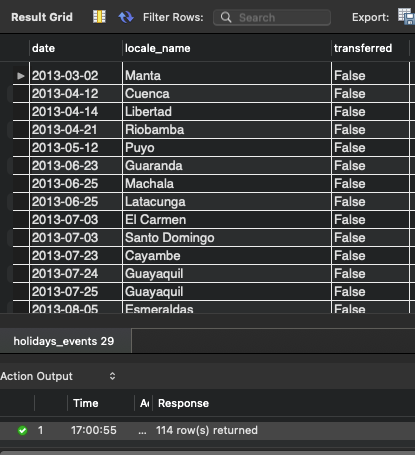
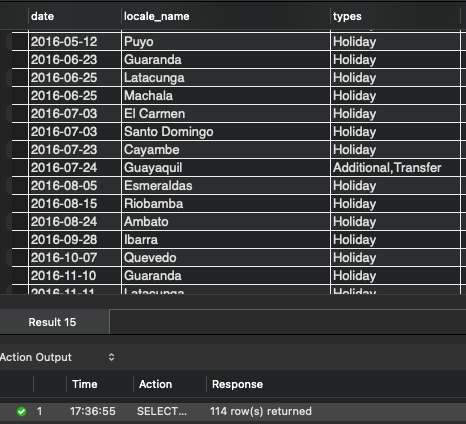
complete documentation for left join on country holiday - pending for validation

diff --git a/docs/sql_query.md b/docs/sql_query.md
@@ -202,7 +202,7 @@ Due to how the Ecuador government decides the celebrated dates of the holiday, i
 
 Also, we were given holidays for year 2012 when the `train` starts from 2013.
 
-Let's first count the number of days from 2012 to 2017 for each city and state, and also the nation itself, with the exclusion of the following conditions (exclude those days from the query results):
+Let's first count the number of days from 2012 to 2017 for each city and state, and also the Ecuador herself, with consideration of the following conditions (exclude those days from the query results):
 1. Days where `transferred = True` does not count as an actual celebrated day.
 2. Type of day where `type = Work Day` does not count as a celebration day.
 3. Include `date` which are between `2013-01-01` - `2017-08-15`. This will align with the date range from `train`.
@@ -210,7 +210,7 @@ Let's first count the number of days from 2012 to 2017 for each city and state, 
 ```{note}
 Without knowing the number of days of holiday for each city first will not allow us to validate the next part of SQL join is done correctly. That is why in the earlier part, we analyzed for each city and state, their number of days of holiday.
 
-This is an important step for the first merge for the final query as we have a source of truth to validate our workings.
+This is an important step for the first merge for the final query as we have a source of truth to validate our workings.****
 ```
 
 ```sql
@@ -239,7 +239,7 @@ FROM HolidayCount;
 
 Not all cities and states have holidays. As analyzed in the previous sub-section, there are 16 states and 22 cities. But now, we see that only 4 states and 19 cities have holidays.
 
-# First merge for the final query
+# First merge (Holiday)
 
 In this section, we explored the merging of columns between `train` and `holidays_events` tables. We want to have information of all holidays because these information may be related to the sales of products in `train`. Before we can do the first merge, we need a common identifying column because both `train` and `holidays_events` table do not have a common column.
 
@@ -263,22 +263,29 @@ LEFT JOIN time_series.stores AS st
 </div>
 
 - Now, we have `city` column in `train`. We are ready to join `date` column from `holidays_events` so that we know how daily sales of cities' store are affected by holidays.
-- We start with a query which tells us all holiday dates for cities only. We take the same query from CTE `HolidayCount` and from `holidays_events` include a new condition to filter city rows.
+- We start with a separate query which tells us all holiday dates for cities only. We take the same query from CTE `HolidayCount` and from `holidays_events` include a new condition to filter city rows (`locale = 'Local'`).
 
 ```sql
 SELECT
   date,
   locale_name,
-  transferred
+  GROUP_CONCAT(DISTINCT type) AS type
 FROM holidays_events
 WHERE type != 'Work Day' AND transferred = 'False' AND locale = 'Local' AND date BETWEEN '2013-01-01' AND '2017-08-15'
-GROUP BY date, locale_name, transferred;
+GROUP BY date, locale_name;
 ```
 
 ```{attention}
 Notice now we have the unique, this makes a one-to-many relationship of `date` columns between `train` and the query below.
 
 This was an important step for the next part of the SQL join because there were a lot of times we found ourselves with explosion of rows with NULL values.
+
+`GROUP_CONCAT(DISTINCT type) AS types` is written because on 2016-07-24, for city Guayaquil, there seems to be a repeated holiday on the same date. If this repeated date is not rectified, it will also cause explosion of rows.
+
+<div align="center">
+
+![guayaquil_repeat_dates](img/guayaquil_repeat_dates.png)
+</div>
 ```
 
 <div align="center">
@@ -295,7 +302,8 @@ SELECT
   tr.*,
   st.city,
   st.state,
-  IF(subquery_c.transferred IS NULL, 'No', 'Yes') as city_hols
+  subquery_c.types,
+  IF(subquery_c.types IS NULL, 'No', 'Yes') as city_hols
   FROM train as tr
   LEFT JOIN stores as st
     ON tr.store_nbr = st.store_nbr
@@ -303,10 +311,10 @@ SELECT
       SELECT
         date,
         locale_name,
-        transferred
+        GROUP_CONCAT(DISTINCT type) AS type
       FROM holidays_events
       WHERE locale = 'Local' AND type != 'Work Day' AND transferred = 'False' AND date BETWEEN '2013-01-01' AND '2017-08-15'
-      GROUP BY date, locale_name, transferred
+      GROUP BY date, locale_name
   ) subquery_c
     ON tr.date = subquery_c.date AND st.city = subquery_c.locale_name;
 ```
@@ -318,7 +326,7 @@ SELECT
 
 - We validate if this second LEFT JOIN is done correctly by doing a comparison with an earlier analysis on holiday of city, state and country. We want to check if the count of holiday dates are the same.
 - To do this, wrap the query into a subquery again, filter `city_hols = Yes` and group the rows by name of city.
-- As we see from the table comparison table below, the number of holidays are the same.
+- As we see from the table comparison table below (the query below returns results on the right column), the number of holidays for all cities are the same.
 
 ```sql
 SELECT
@@ -329,7 +337,8 @@ FROM (
     tr.*,
     st.city,
     st.state,
-    IF(subquery_c.transferred IS NULL, 'No', 'Yes') as city_hols
+    subquery_c.type,
+    IF(subquery_c.type IS NULL, 'No', 'Yes') as city_hols
   FROM train as tr
   LEFT JOIN stores as st
     ON tr.store_nbr = st.store_nbr
@@ -337,10 +346,10 @@ FROM (
       SELECT
         date,
         locale_name,
-        transferred
+        GROUP_CONCAT(DISTINCT type) AS type
       FROM holidays_events
       WHERE locale = 'Local' AND type != 'Work Day' AND transferred = 'False' AND date BETWEEN '2013-01-01' AND '2017-08-15'
-      GROUP BY date, locale_name, transferred
+      GROUP BY date, locale_name
   ) subquery_c
     ON tr.date = subquery_c.date AND st.city = subquery_c.locale_name
 ) subquery2
@@ -350,7 +359,7 @@ GROUP BY city
 
 <div align="center">
 
-| CTE `HolidayCount` | `subquery2`
+| CTE `HolidayCount` | City Holidays
 :-------------------------:|:-------------------------:
 ![CTE_HolidayCount](img/count_holiday.png) | ![subquery2](img/validate_left_join_2.png)
 </div>
@@ -361,19 +370,19 @@ GROUP BY city
 ````{warning}
 <b>BUT</b> if we were to built a CTE of common holidays and continue with the next SQL LEFT JOIN for states, we would expect a result where dates, in reality with no holidays, were given holidays. This happens when the name of city and state are the same (E.g. Loja which is both city and state name).
 
-The query result below comes after we transform `subquery_c` into a useable CTE named `CommonHolidays` and went ahead with the next SQL LEFT JOIN from the same CTE.
+The query result below comes after we transform `subquery_c` into a reuseable CTE named `CommonHolidays` and went ahead with the next SQL LEFT JOIN from the same CTE. Note that in `CommonHolidays` we do not have a filter condition for `locale = 'Local'` anymore and also different grouping.
 
 ```sql
 WITH CommonHolidays AS (
   SELECT
     date,
-    locale,
     locale_name,
-    transferred
+    GROUP_CONCAT(DISTINCT type) AS type
   FROM holidays_events
   WHERE type != 'Work Day' AND transferred = 'False' AND date BETWEEN '2013-01-01' AND '2017-08-15'
-  GROUP BY date, locale, locale_name, transferred
+  GROUP BY date, locale_name
 )
+
 SELECT
   COUNT(DISTINCT date) AS state_hols_count,
   state
@@ -382,8 +391,10 @@ FROM (
     tr.*,
     st.city,
     st.state,
-    IF(ch_city.transferred IS NULL, 'No', 'Yes') as city_hols,
-    IF(ch_state.transferred IS NULL, 'No', 'Yes') as state_hols
+    ch_city.type AS city_hols_type,
+    IF(ch_city.type IS NULL, 'No', 'Yes') as city_hols,
+    ch_state.type AS state_hols_type,
+    IF(ch_state.type IS NULL, 'No', 'Yes') as state_hols
   FROM train AS tr
   LEFT JOIN stores AS st
     ON tr.store_nbr = st.store_nbr
@@ -403,3 +414,126 @@ GROUP BY state;
 
 By validating with CTE `HolidayCount` we noticed 2 more states (Loja and Esmeraldas) were "given" holidays mistakenly.
 ````
+
+- The workaround will be to either revert back to using subquery or create a second SQL CTE for state (a temporary result set with only states holiday).
+- In order to retain query maintainability and readability, we proceeded with the latter.
+- As we see from the table comparison table below (the query below returns results on the right column), the number of holidays for all states are the same.
+- Also note that CTE `StateHolidays` do not require `GROUP_CONCAT` function as holidays for state do not have duplicated dates unlike city holidays.
+
+```sql
+SELECT
+  COUNT(DISTINCT date) AS state_hols_count,
+  state
+FROM (
+  WITH CityHolidays AS (
+    SELECT
+      date,
+      locale_name,
+      GROUP_CONCAT(DISTINCT type) AS type
+    FROM holidays_events
+    WHERE type != 'Work Day' AND locale = 'Local' AND transferred = 'False' AND date BETWEEN '2013-01-01' AND '2017-08-15'
+    GROUP BY date, locale_name
+  ),
+  
+  StateHolidays AS (
+    SELECT
+      date,
+      locale_name,
+      type
+    FROM holidays_events
+    WHERE type != 'Work Day' and locale = 'Regional' and transferred = 'False' AND date BETWEEN '2013-01-01' AND '2017-08-15'
+    GROUP BY date, locale_name, type
+  )
+  
+  SELECT
+    tr.*,
+    st.city,
+    st.state,
+    c_hols.type AS city_hols_type,
+    IF(c_hols.type IS NULL, 'No', 'Yes') as city_hols,
+    s_hols.type AS state_hols_type,
+    IF(s_hols.type IS NULL, 'No', 'Yes') as state_hols
+  FROM train AS tr
+  LEFT JOIN stores AS st
+    ON tr.store_nbr = st.store_nbr
+  LEFT JOIN CityHolidays AS c_hols
+    ON tr.date = c_hols.date AND st.city = c_hols.locale_name
+  LEFT JOIN StateHolidays AS s_hols
+    ON tr.date = s_hols.date AND st.state = s_hols.locale_name
+) subquery
+WHERE state_hols = 'Yes'
+GROUP BY state;
+```
+
+<div align="center">
+
+| CTE `HolidayCount` | State Holidays
+:-------------------------:|:-------------------------:
+![CTE_HolidayCount](img/count_holiday.png) | ![subquery](img/validate_left_join_3.png)
+</div>
+
+- The last SQL LEFT JOIN for this section will be getting all holiday dates for Ecuador.
+- We also validate the number of country holidays at the same time.
+  
+```sql
+SELECT COUNT(DISTINCT date) AS country_hols_count
+FROM (
+  WITH CityHolidays AS (
+    SELECT
+    date,
+    locale_name,
+    GROUP_CONCAT(DISTINCT type) AS type
+  FROM holidays_events
+  WHERE type != 'Work Day' AND locale = 'Local' AND transferred = 'False' AND date BETWEEN '2013-01-01' AND '2017-08-15'
+  GROUP BY date, locale_name
+  ),
+  
+  StateHolidays AS (
+    SELECT  
+      date,
+      locale_name,
+      type
+    FROM holidays_events
+    WHERE type != 'Work Day' and locale = 'Regional' and transferred = 'False' AND date BETWEEN '2013-01-01' AND '2017-08-15'
+    GROUP BY date, locale_name, type
+    ),
+    
+  NationHolidays AS (
+    SELECT
+      date,
+      locale_name,
+      type
+    FROM holidays_events
+    WHERE type != 'Work Day' and locale = 'National' and transferred = 'False' AND date BETWEEN '2013-01-01' AND '2017-08-15'
+    GROUP BY date, locale_name, type
+  )
+  
+  SELECT
+    tr.*,
+    st.city,
+    st.state,
+    c_hols.type AS city_hols_type,
+    IF(c_hols.type IS NULL, 'No', 'Yes') as city_hols,
+    s_hols.type AS state_hols_type,
+    IF(s_hols.type IS NULL, 'No', 'Yes') as state_hols,
+    n_hols.type AS nation_hols_type,
+    IF(n_hols.type IS NULL, 'No', 'Yes') as nation_hols
+  FROM train AS tr
+  LEFT JOIN stores AS st
+    ON tr.store_nbr = st.store_nbr
+  LEFT JOIN CityHolidays AS c_hols
+    ON tr.date = c_hols.date AND st.city = c_hols.locale_name
+  LEFT JOIN StateHolidays AS s_hols
+    ON tr.date = s_hols.date AND st.state = s_hols.locale_name
+  LEFT JOIN NationHolidays AS n_hols
+    ON tr.date = n_hols.date
+) subquery
+WHERE nation_hols = 'Yes';
+```
+
+<div align="center">
+
+| CTE `HolidayCount` | Country Holidays
+:-------------------------:|:-------------------------:
+![CTE_HolidayCount](img/count_holiday.png) | ![subquery](img/validate_left_join_4.png)
+</div>
